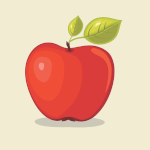
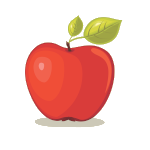
22.04.2026v2
Egzamin 2 skończony

diff --git a/Egzaminy/Styczen2026-2/styl.css b/Egzaminy/Styczen2026-2/styl.css
@@ -2,12 +2,24 @@ body{
     font-family: Georgia, sans-serif;
 }
 
-nav,
+header,
 footer{
     background-color: forestgreen;
     color: white;
-    margin: 2px;
+    padding: 2px;
     text-align: center;
+}
+
+nav{
+    background-color: darkkhaki;
+    height: 150px;
+    display: flex;
+    align-items: stretch;
+    overflow: hidden;
+}
+
+.content{
+    display: flex;
 }
 
 .boczny,
@@ -15,5 +27,16 @@ section{
     background-color: Khaki;
     width: 50%;
     height: 400px;
-    flex: auto;
+}
+
+.boczny img{
+    padding: 2px;
+    margin: 10px;
+    border: 2px solid forestgreen;
+    border-style: dotted;
+    border-radius: 40px;
+}
+section p{
+    font-size: 120%;
+    font-style: italic;
 }

diff --git a/Egzaminy/Styczen2026-2/index.php b/Egzaminy/Styczen2026-2/index.php
@@ -7,37 +7,54 @@
     <link rel="stylesheet" href="styl.css">
 </head>
 <body>
-    <?php
-    $mysqli = new mysqli("localhost", "root", "", "bazar");
-    ?>
-    <nav>
+    <header>
         <h1>Zdrowy bazarek</h1>
+    </header>
+    <nav>
         <?php
-        $result = $mysqli->query("SELECT plik, rodzaj FROM towar");
+        $mysqli = new mysqli("localhost", "root", "", "bazar");
+        $result = $mysqli->query("SELECT plik, rodzaj, nazwa FROM towar WHERE rodzaj='owoc'");
         while($row = $result->fetch_assoc()){
-            echo "<img src='pliki3-1/".$row['plik']."' alt='".$row['rodzaj']."'>";
+            echo "<img src='pliki3-1/".$row['plik']."' alt='".$row['nazwa']."'>";
         }
         ?>    
         </nav>
-    <div class="boczny">
-        <img src="pliki3-1/market.png" alt="bazarek">
-    </div>
-    <section>
-        <p>Wybierz owoc lub warzywo i podaj wagę</p>
-        <form action="skrypt.php" method="post">
-            <select name="produkt" id="produkt"></select>
-            <input type="number" name="waga" id="waga" step="0.01" required>
-            <input type="submit" value="Zamów">
-        </form>
-        <?php
-            $mysqli = new mysqli("localhost", "root", "", "bazar");
-            if ($_POST['produkt'] && $_POST['waga']){
+    <main class="content">
+        <div class="boczny">
+            <img src="pliki3-1/market.png" alt="bazarek">
+        </div>
+        <section>
+
+            <p>Wybierz owoc lub warzywo i podaj wagę</p>
+            <form method="post">
+                <select name="produkt" id="produkt">
+                <?php
+                $result = $mysqli->query("SELECT nazwa, id FROM towar");
+                while($row = $result->fetch_assoc()){
+                    echo "<option value='".$row['id']."'>".$row['nazwa']."</option>";
+                }    
+                ?>
+                </select>
+                <input type="number" name="waga" id="waga" step="0.01" required>
+                <input type="submit" value="Zamów" name='zamow'>
+            </form>
+            <?php
+            if(isset($_POST['zamow'])){
                 $produkt = $_POST['produkt'];
                 $waga = $_POST['waga'];
-
+                $result = $mysqli->query("SELECT rodzaj, nazwa, cena FROM towar WHERE id=".$produkt);
+                $row = $result->fetch_assoc();
+                $rodzaj = $row['rodzaj'];
+                $nazwa = $row['nazwa'];
+                $cena_za_kg = $row['cena'];
+                $cena = $cena_za_kg * $waga;
+                echo "<p>".$rodzaj." ".$nazwa." wartość: ".number_format($cena, 2)." zł</p>";
+                $mysqli->query("INSERT INTO zamowienia (id_towaru, waga) VALUES (".$produkt.", ".$waga.")");
+                $mysqli->close();
             }
-        ?>
-    </section>
+            ?>
+        </section>
+    </main>
     <footer>Stronę opracował: 00000000</footer>
 </body>
 </html>